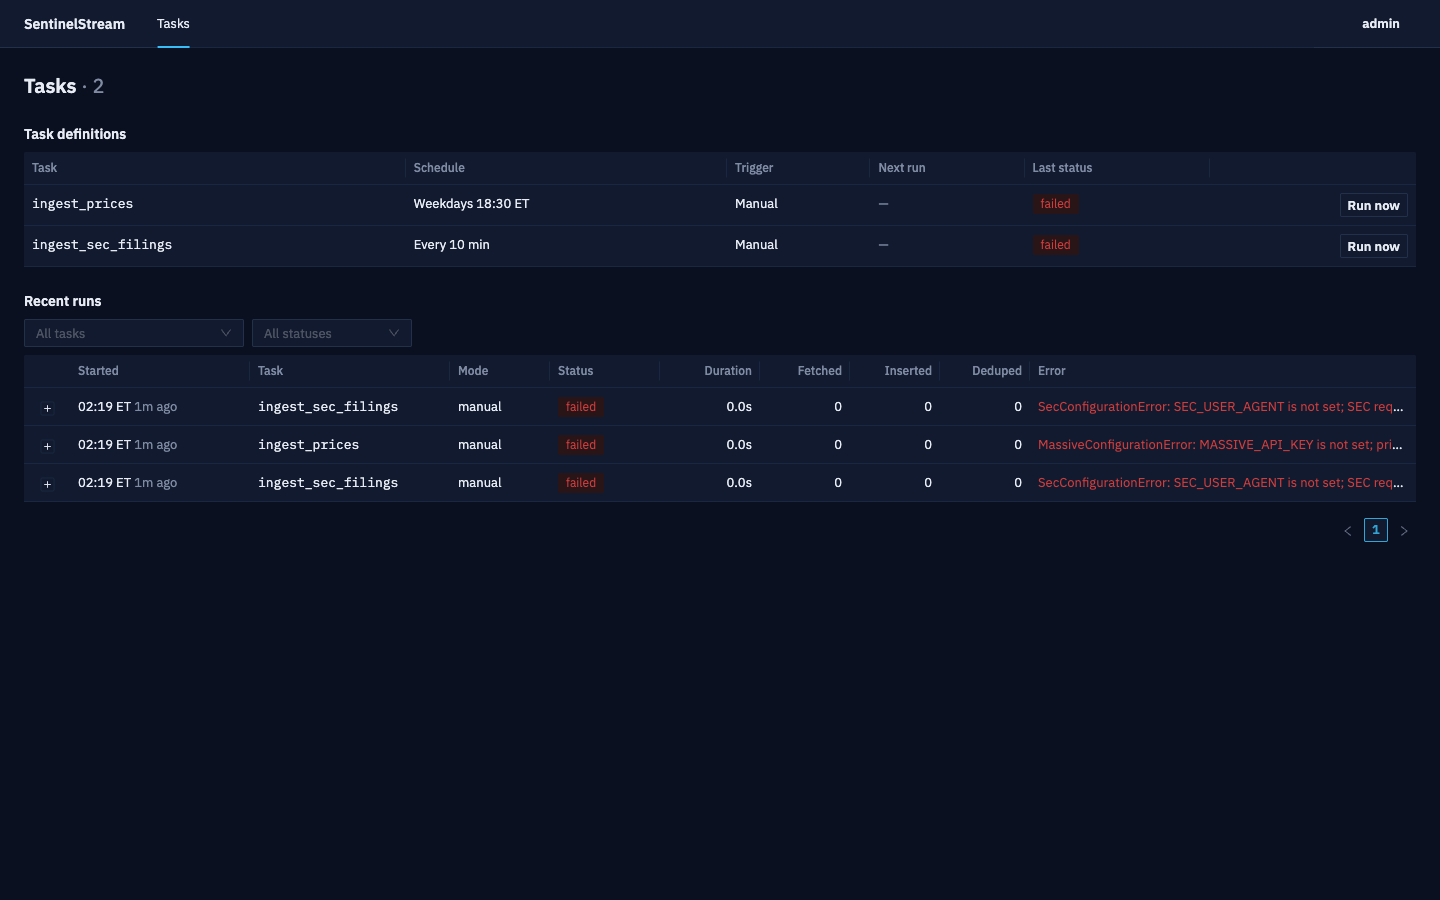
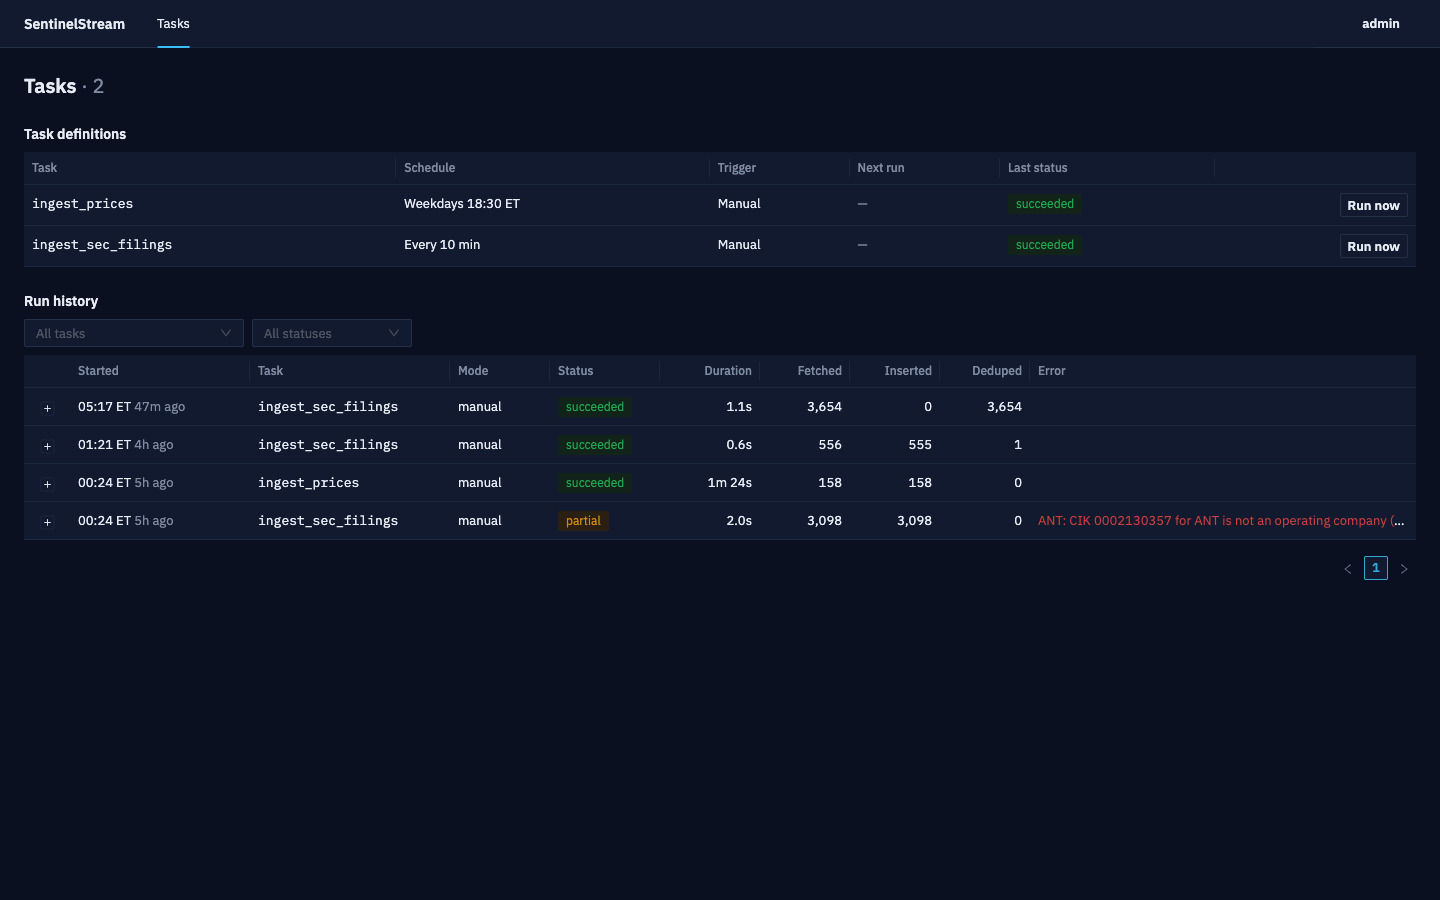
Write the M0 README
A one-paragraph pitch, a Mermaid diagram of the stage-1 architecture,
screenshots from the live EC2 deployment, and a Scope and roadmap section
drawn from the PRD milestones. Run-locally steps now cover sign-in and
the ingestion credentials. Ticks the last M0 box.

diff --git a/README.md b/README.md
@@ -1,29 +1,89 @@
 # SentinelStream
 
-A personal research assistant for a long-horizon US stock investor. It alerts on material SEC filings for a watchlist, explains them from the filings themselves, shows what has historically happened after similar events, and keeps a decision ledger measured against a benchmark. See [`docs/PRD.md`](docs/PRD.md).
+SentinelStream is a personal research assistant for a long-horizon US stock investor. It watches SEC EDGAR for new filings from the companies on a watchlist and flags the material ones. It explains each filing from the filing itself, with numbers taken from XBRL rather than from a model. It shows what has historically followed similar events, and it keeps a decision ledger measured against QQQ. It is a single-user tool that runs as a small, monitored production system on AWS: every merge to `main` is tested, built and deployed automatically, the infrastructure is defined in Terraform, and no credentials are stored in the repo or in CI. It makes no trades and gives no buy or sell recommendations. The full spec is in [`docs/PRD.md`](docs/PRD.md).
 
-> Work in progress: milestone M0 (repo, CI and AWS deployment). A full README with an architecture diagram and screenshots lands at the end of M0.
+![Tasks page: task definitions and run history](docs/screenshots/tasks.png)
+
+<details>
+<summary>More screenshots: a run expanded, and Sign in</summary>
+
+![A run expanded: trace ID, per-issuer meta and Run again](docs/screenshots/tasks-expanded.png)
+
+![Sign in](docs/screenshots/signin.png)
+
+</details>
+
+Screenshots are from the live EC2 deployment at 1440 px.
+
+## Architecture
+
+Stage 1 runs everything on one EC2 instance with Docker Compose, which keeps cost within the US$30-a-month target. There is no NAT gateway, no load balancer, and no inbound port. The UI is reached through an SSM port forward.
+
+```mermaid
+flowchart LR
+  dev([Developer]) -->|push / merge| gh[GitHub Actions<br/>CI: pytest, Vitest, Ruff, Black,<br/>ESLint, gitleaks, Terraform]
+  gh -->|OIDC, no stored keys| iam[IAM deploy role]
+  gh -->|image tagged by commit SHA| ecr[(ECR)]
+  gh -->|SSM Run Command: deploy.sh| ec2
+
+  subgraph ec2[EC2 t4g.micro · Docker Compose]
+    api[api<br/>FastAPI + built React UI]
+    sched[scheduler<br/>enqueues due runs]
+    worker[worker<br/>claims and runs tasks]
+    pg[(Postgres 16<br/>on EBS volume)]
+    api --> pg
+    sched --> pg
+    worker --> pg
+  end
+
+  ecr -->|pull| ec2
+  ssm[(SSM Parameter Store<br/>secrets)] -->|env at deploy time| ec2
+  ec2 -->|container logs| cw[CloudWatch Logs<br/>+ task_run_failed alarm]
+  worker -->|rate-limited, Retry-After| sec[SEC EDGAR]
+  worker --> massive[Massive daily bars]
+  you([Investor]) -->|SSM port forward| api
+```
+
+- **All background work goes through `task_runs`** ([ADR 0003](docs/decisions/0003-scheduler-and-worker.md)). The scheduler only enqueues. The worker claims runs with `FOR UPDATE SKIP LOCKED` and holds a per-task advisory lock, so an overlapping run ends `skipped`. The "Run now" button and the CLI insert the same `pending` rows, and the API answers 202.
+- **Every fact row carries `known_at`,** the time it became public: EDGAR acceptance for filings, the 16:00 ET close for daily bars. Writes upsert on stable business keys, so every job is safe to rerun ([ADR 0002](docs/decisions/0002-baseline-data-model.md), [ADR 0004](docs/decisions/0004-sec-filings-ingestion.md)).
+- **Data providers are treated politely.** SEC requests carry a declared User-Agent and are rate-limited on the client side. Every HTTP call retries with exponential backoff and honours `Retry-After`. A missing credential fails the run with a clear error instead of falling back to placeholder data.
+- **Sign-in** uses PBKDF2 password hashes, an HMAC-signed HttpOnly cookie, and a login lockout. Every `/api` route except login and logout requires a session ([ADR 0005](docs/decisions/0005-session-auth.md)).
+
+Other decisions are recorded in [`docs/decisions/`](docs/decisions).
+
+## Scope and roadmap
+
+| Milestone | Status | What it delivers |
+| --- | --- | --- |
+| **M0** Showcase repo on AWS | Done, Nov 2026 | CI with gitleaks, Terraform for stage 1, auto-deploy to EC2 on merge, scheduler and worker, SEC filings and daily price ingestion, sign-in and the Tasks page |
+| **M1** Alerts live | Next | Materiality rules v0 (8-K items 1.01, 2.02, 4.02, 5.02 and Form 4 open-market purchases), Slack alerts within 10 minutes of EDGAR acceptance, ticker onboarding, Alerts and Watchlist pages, and the `task_run_failed` log line that feeds the existing alarm |
+| **M2** Evidence harness | Planned | As-of data access with tests proving lookahead is blocked, event studies with costs, and a base rate (with sample size) on every alert |
+| **M3** Explain | Planned | XBRL fundamentals and a year-over-year 10-K diff with citations to filing sections |
+| **M4** Journal | Planned | Decision ledger, and returns against QQQ split into alpha and beta |
+| AWS stage 2 | Optional | RDS, ECS Fargate, S3 and CloudFront |
+
+**Out of scope:** trade execution and broker connections; buy or sell recommendations; options, intraday data and order books; charting, screeners and a general fundamentals UI; and multi-user SaaS. Broker apps and TradingView already cover those well.
+
+**Watchlist:** NVDA, SPCX (SpaceX), ANT (Anthropic), GOOGL, AMZN and NBIS (Nebius, a foreign private issuer that files 20-F and 6-K), with QQQ as the benchmark and SPY for reference.
 
 ## Run locally
 
 Requires Docker, [uv](https://docs.astral.sh/uv/) and Node 22.
 
 ```sh
-cp .env.example .env
+cp .env.example .env             # then set AUTH_SESSION_SECRET and AUTH_ADMIN_PASSWORD
 docker compose up --build        # Postgres 16, then api (web UI on http://127.0.0.1:8000), scheduler and worker
 curl http://127.0.0.1:8000/healthz
 ```
 
-Background work goes through `task_runs` ([ADR 0003](docs/decisions/0003-scheduler-and-worker.md)): the `scheduler` enqueues due tasks as pending runs, and the `worker` claims and executes them. To queue a run by hand and watch it:
+Open http://127.0.0.1:8000 and sign in as `admin` with `AUTH_ADMIN_PASSWORD`. The first login stores a hash of that password. Ingestion runs need `SEC_USER_AGENT` (an application name and a contact email, as SEC requires) and `MASSIVE_API_KEY`. Without them a run fails with a clear configuration error. On EC2 all of these settings come from Parameter Store, and they are read at deploy time.
+
+Background work goes through `task_runs` ([ADR 0003](docs/decisions/0003-scheduler-and-worker.md)): the `scheduler` enqueues due tasks as pending runs, and the `worker` claims and executes them. Queue a run with **Run now** on the Tasks page, or from the command line:
 
 ```sh
 docker compose exec worker python -m orchestration.enqueue ingest_sec_filings   # prints the run id
 docker compose logs -f worker
 ```
-
-Until the ingestion handlers land, such a run ends `failed` with "no handler registered".
-
-The JSON API is under `/api`, and every route except login and logout needs a session ([ADR 0005](docs/decisions/0005-session-auth.md)). Set `AUTH_SESSION_SECRET` and `AUTH_ADMIN_PASSWORD` in `.env`, then sign in as `admin` with that password. The first login stores its hash. On EC2 both values are Parameter Store SecureStrings.
 
 Every app container applies pending SQL migrations from [`infra/migrations`](infra/migrations) before it starts, under a Postgres advisory lock ([ADR 0002](docs/decisions/0002-baseline-data-model.md)). To run them by hand: `uv run python -m orchestration.migrations` with the `POSTGRES_*` settings exported.
 
@@ -37,7 +97,7 @@ uv run uvicorn api.app:app --reload
 
 ## Checks
 
-The database tests (migrations, task runs, scheduler, worker) need a disposable Postgres; without `TEST_DATABASE_URL` they are skipped locally (CI always runs them).
+The database tests (migrations, task runs, scheduler, worker, API) need a disposable Postgres; without `TEST_DATABASE_URL` they are skipped locally (CI always runs them).
 
 ```sh
 docker run --rm -d --name ss-test-pg -p 127.0.0.1:55432:5432 -e POSTGRES_PASSWORD=test postgres:16
@@ -61,7 +121,7 @@ AWS access is OIDC only, with no stored keys. To roll back, run the **Deploy** w
 gh workflow run deploy.yml --ref main -f image_tag=<full-commit-sha>
 ```
 
-Infrastructure is in [`infra/terraform`](infra/terraform/README.md).
+Infrastructure, and how to reach the host and the UI over SSM, is in [`infra/terraform`](infra/terraform/README.md).
 
 ## Layout
 
@@ -73,4 +133,4 @@ Infrastructure is in [`infra/terraform`](infra/terraform/README.md).
 | `api/` | FastAPI app; also serves the built web UI |
 | `web/` | React + TypeScript frontend |
 | `infra/` | Terraform, Compose files, SQL migrations |
-| `docs/` | PRD and decision records |
+| `docs/` | PRD, decision records, screenshots |

diff --git a/CLAUDE.md b/CLAUDE.md
@@ -14,7 +14,7 @@ Done when every box is ticked:
 - [x] Core prototype modules carried over and running under Docker Compose: orchestration (scheduler, `task_runs`, locks, dispatch), ingestion (SEC client, Massive bars), migrations runner, minimal web UI with the task-runs view
 - [x] Terraform for stage-1 AWS (us-east-1): ECR, EC2 t4g.micro, IAM role for GitHub OIDC, SSM (Run Command + Parameter Store), CloudWatch Logs + one alarm, S3 bucket, AWS Budgets alarm
 - [x] Deploy job: merge to `main` → build images → push to ECR (tagged by commit SHA) → SSM Run Command pulls and restarts Compose on EC2
-- [ ] README with a one-paragraph pitch, architecture diagram (Mermaid), screenshots, and a "Scope and roadmap" section
+- [x] README with a one-paragraph pitch, architecture diagram (Mermaid), screenshots, and a "Scope and roadmap" section
 
 Next milestone after M0 is **M1: Alerts live** (see `docs/PRD.md`). Don't start M1 work until M0 is done.
 
